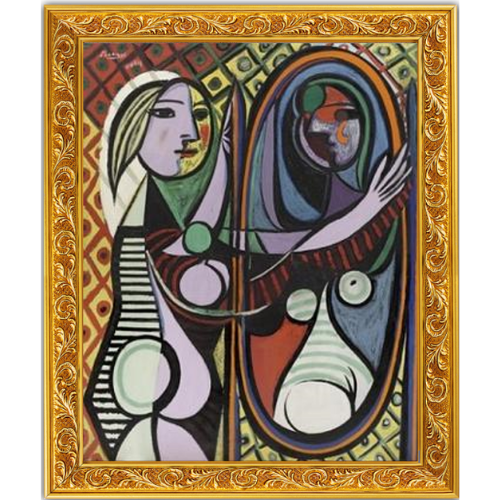
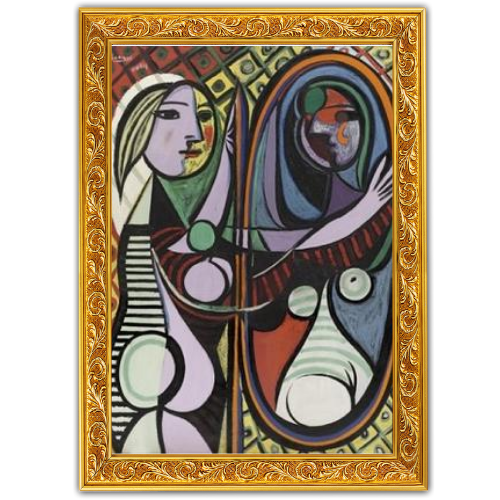
asset images changed, favorites page fixed (favorites to artist still doesnt work)

diff --git a/lib/favorites.dart b/lib/favorites.dart
@@ -32,16 +32,17 @@ class _FavoritesPageState extends State<FavoritesPage> with RouteAware, SingleTi
     super.dispose();
   }
 
-  void navigateToDetailPage(Map<String, dynamic> itemData, String category) {
+  void navigateToDetailPage(DocumentSnapshot itemData, String category) {
     Widget page;
     if (category == 'artworks') {
-      page = ArtworkDetailPage(artworkId: itemData['id']);
+      print(itemData.id);
+      page = ArtworkDetailPage(artworkId: itemData.id);
     } else if (category == 'movements') {
-      page = MovementPage(movementData: itemData);
+      page = MovementPage(movementData: itemData.data());
     } else if (category == 'museums') {
-      page = MuseumPage(museumData: itemData);
+      page = MuseumPage(museumData: itemData.data());
     } else if (category == 'artists') {
-      page = ArtistPage(artistData: itemData);
+      page = ArtistPage(artistData: itemData.data() as Map<String, dynamic>);
     } else {
       // Default to a generic detail page or an error page
       page = Text("No detail page for this category");
@@ -198,7 +199,7 @@ class _FavoritesPageState extends State<FavoritesPage> with RouteAware, SingleTi
                     itemBuilder: (context, index) {
                       var item = snapshot.data!.docs[index]; // Assuming snapshot.data is a QuerySnapshot.
                       return GestureDetector(
-                        onTap: () => navigateToDetailPage(item.data() as Map<String, dynamic>, collectionName), // Implement or replace navigateToDetailPage function accordingly.
+                        onTap: () => navigateToDetailPage(item, collectionName), // Implement or replace navigateToDetailPage function accordingly.
                         child: Container(
                           margin: EdgeInsets.all(5),
                           decoration: BoxDecoration(

diff --git a/lib/daily.dart b/lib/daily.dart
@@ -80,7 +80,7 @@ class _ArtDetailsPageState extends State<ArtDetailsPage> with RouteAware {
 
         artworks.add({
           'id': artwork.id,
-          'image': artworkInfo['image'] ?? 'Unknown',
+          'image': artworkInfo['framedImage'] ?? 'Unknown',
           'name': artworkInfo['name'] ?? 'Unknown',
           'year': artworkInfo['year'] ?? 'Unknown',
           'description': artworkInfo['description'] ?? 'No description available',

diff --git a/lib/artwork.dart b/lib/artwork.dart
@@ -67,7 +67,7 @@ class _ArtworkDetailPageState extends State<ArtworkDetailPage> with RouteAware {
 
     return {
       'id': artworkSnapshot.id,
-      'image': artworkInfo['image'] ?? 'Unknown',
+      'image': artworkInfo['framedImage'] ?? 'Unknown',
       'name': artworkInfo['name'] ?? 'Unknown',
       'year': artworkInfo['year'] ?? 'Unknown',
       'description': artworkInfo['description'] ?? 'No description available',
